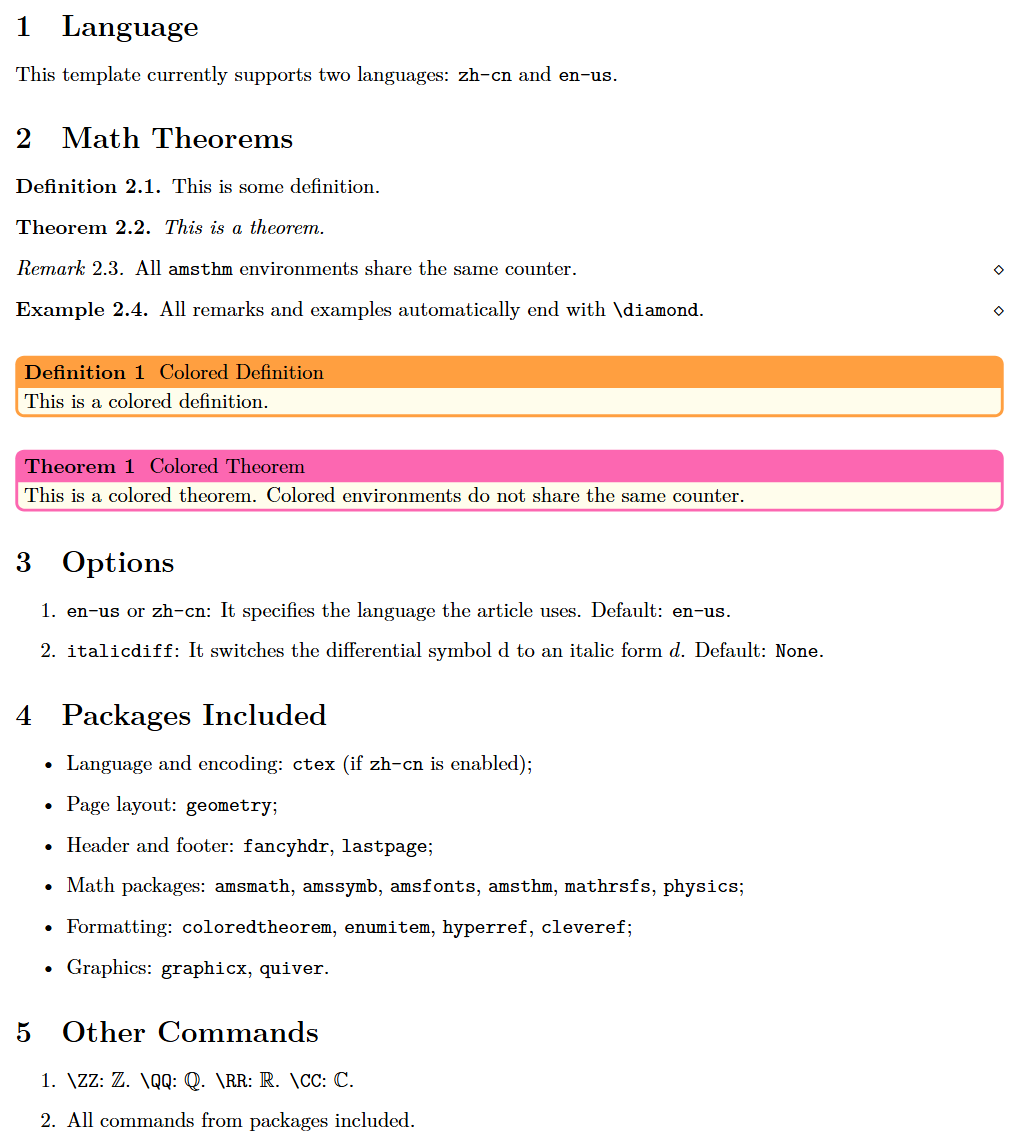
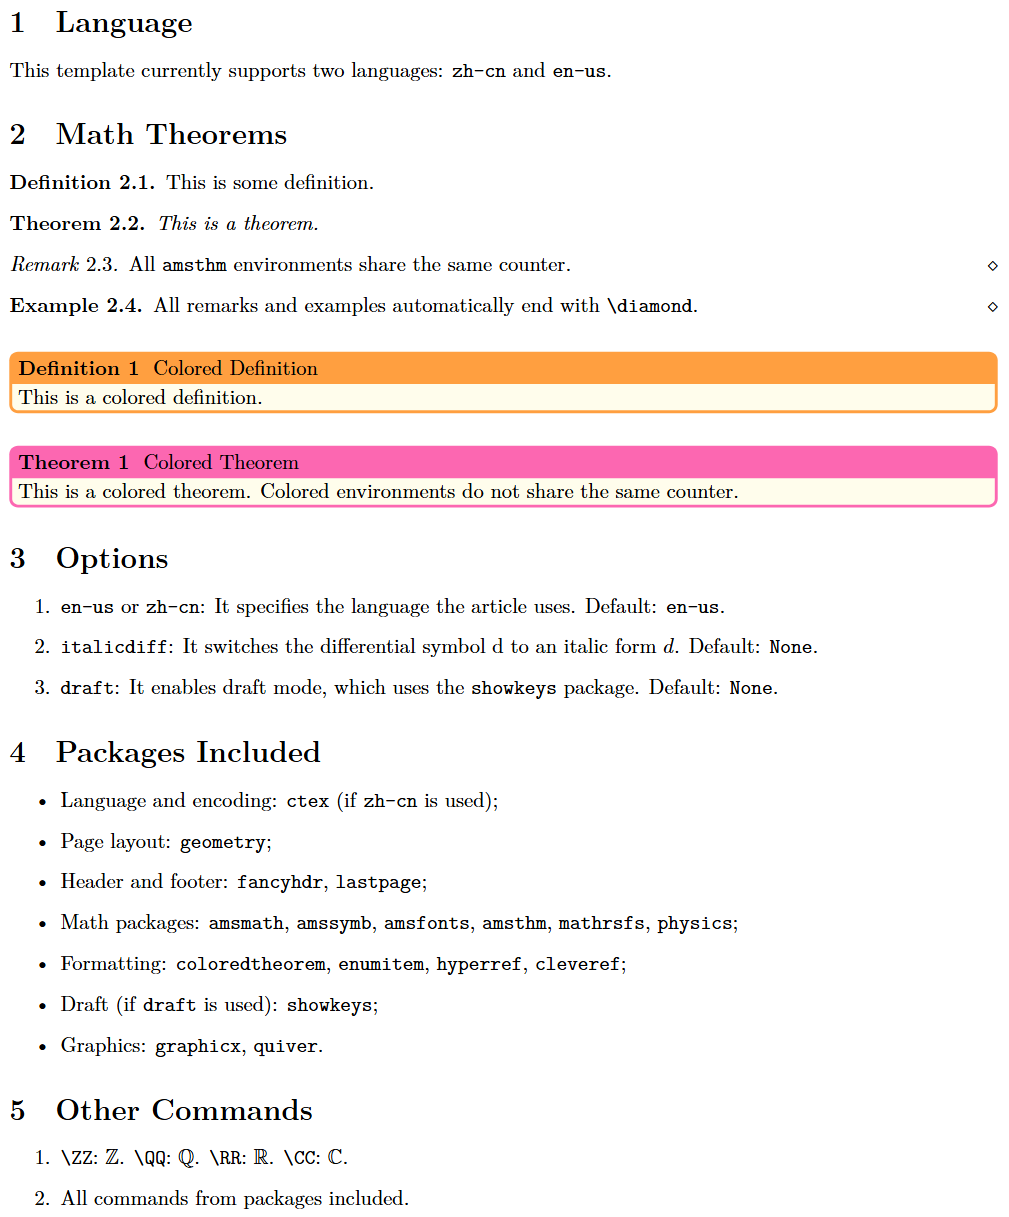
Added draft mode.

diff --git a/main.tex b/main.tex
@@ -1,5 +1,8 @@
 \documentclass[a4paper,10pt]{article}
-\usepackage[en-us]{YTMstyle}
+\usepackage[en-us,
+    % italicdiff,               % switches the differential symbol \(\dd\) to an italic form.
+    % draft                     % enables draft mode.
+]{YTMstyle}
 
 \title{Example Document}
 \author{Tianming You}
@@ -19,7 +22,7 @@ This template currently supports two languages: \texttt{zh-cn} and \texttt{en-us
 \begin{definition}
     This is some definition.
 \end{definition}
-\begin{theorem}
+\begin{theorem}\label{thm:thm1}
     This is a theorem.
 \end{theorem}
 \begin{remark}
@@ -39,15 +42,17 @@ This template currently supports two languages: \texttt{zh-cn} and \texttt{en-us
 \begin{enumerate}
     \item \texttt{en-us} or \texttt{zh-cn}: It specifies the language the article uses. Default: \texttt{en-us}.
     \item \texttt{italicdiff}: It switches the differential symbol \(\dd\) to an italic form \(d\). Default: \texttt{None}.
+    \item \texttt{draft}: It enables draft mode, which uses the \texttt{showkeys} package. Default: \texttt{None}.
 \end{enumerate}
 
 \section{Packages Included}
 \begin{itemize}
-    \item Language and encoding: \texttt{ctex} (if \texttt{zh-cn} is enabled);
+    \item Language and encoding: \texttt{ctex} (if \texttt{zh-cn} is used);
     \item Page layout: \texttt{geometry};
     \item Header and footer: \texttt{fancyhdr}, \texttt{lastpage};
     \item Math packages: \texttt{amsmath}, \texttt{amssymb}, \texttt{amsfonts}, \texttt{amsthm}, \texttt{mathrsfs}, \texttt{physics};
     \item Formatting: \texttt{coloredtheorem}, \texttt{enumitem}, \texttt{hyperref}, \texttt{cleveref};
+    \item Draft (if \texttt{draft} is used): \texttt{showkeys}; 
     \item Graphics: \texttt{graphicx}, \texttt{quiver}.
 \end{itemize}
 

diff --git a/README.md b/README.md
@@ -8,11 +8,12 @@ If you're new to TeX, I recommend installing [TeX Live](https://tug.org/texlive/
 
 You can use it in either English(`en-us`) or 简体中文(`zh-cn`). The following packages are automatically included:
 
-- Language and encoding: `ctex` (if `zh-cn` is enabled);
+- Language and encoding: `ctex` (if `zh-cn` is used);
 - Page layout: `geometry`;
 - Header and footer: `fancyhdr`, `lastpage`;
 - Math packages: `amsmath`, `amssymb`, `amsfonts`, `amsthm`, `mathrsfs`, `physics`;
 - Formatting: `coloredtheorem`, `enumitem`, `hyperref`, `cleveref`;
+- Draft (if `draft` is used): `showkeys`;
 - Graphics: `graphicx`, `quiver`.
 
 ![Template Preview](example.png)
